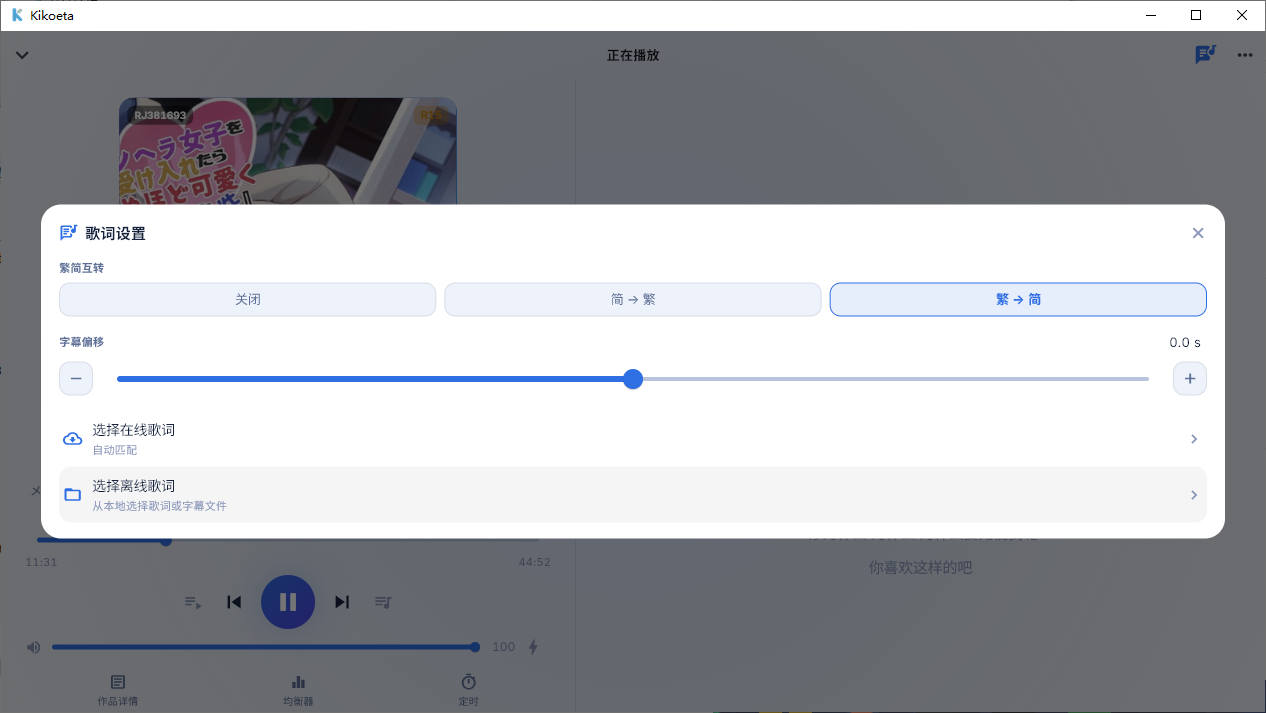
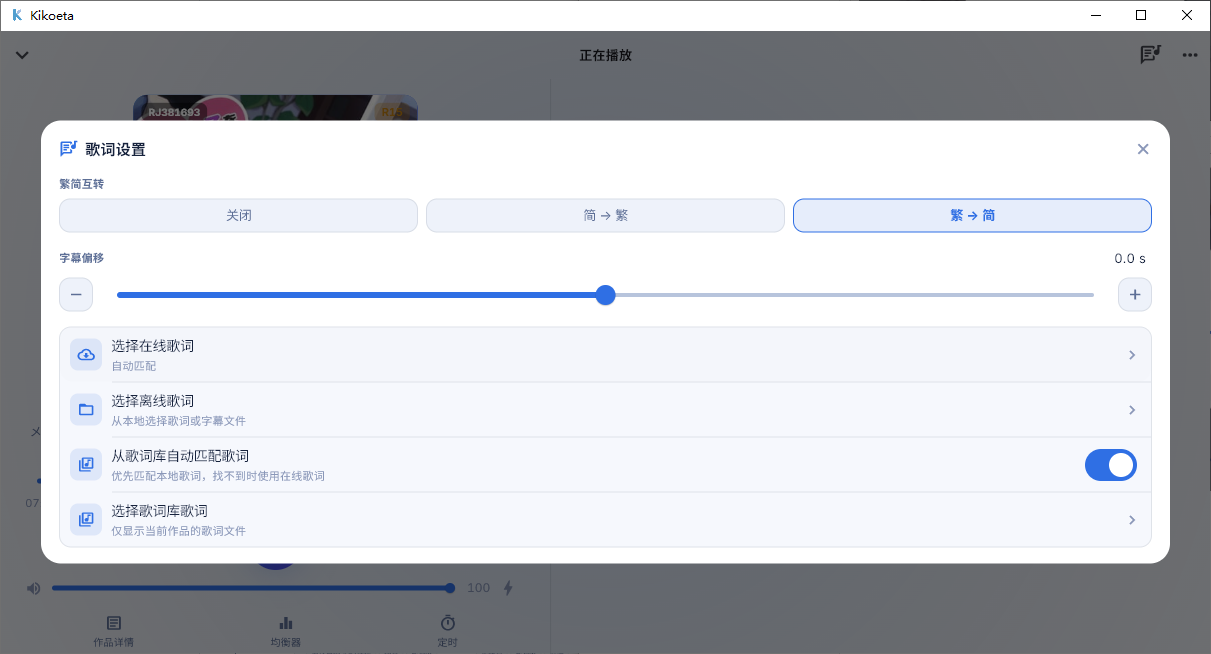
更新readme

diff --git a/README.md b/README.md
@@ -11,26 +11,53 @@
 
 ### 桌面端
 
-<img src="docs/image/首页-横屏.png" alt="Kikoeta 桌面端首页，展示搜索、筛选与作品流" width="100%">
-
-<img src="docs/image/播放器-横屏.png" alt="Kikoeta 桌面端播放器，左侧为播放控制，右侧为同步歌词" width="100%">
-
-| 网络与账号 | 播放工具 |
-| :---: | :---: |
-| <img src="docs/image/登录页.png" alt="登录页" width="100%"><br>账号登录与自建站点 | <img src="docs/image/网络代理.png" alt="网络代理设置" width="100%"><br>HTTP 网络代理 |
-| <img src="docs/image/均衡器.png" alt="十段均衡器" width="100%"><br>10 段均衡器 | <img src="docs/image/定时关闭.png" alt="定时关闭" width="100%"><br>定时关闭 |
+| 首页 | 播放器 |
+| --- | --- |
+| ![桌面端首页，展示搜索、筛选与作品流](docs/image/首页-横屏.png) | ![普通横屏播放器](docs/image/播放器-普通横屏.png) |
 
 ### Android
 
-<p align="center">
-  <img src="docs/image/首页-竖屏.png" alt="Android 首页作品流" width="31%">
-  <img src="docs/image/播放器-封面页-竖屏.png" alt="Android 播放器封面页" width="31%">
-  <img src="docs/image/播放器-字幕页-竖屏.png" alt="Android 播放器歌词页" width="31%">
-</p>
+<table>
+  <tr>
+    <th width="33%">首页</th>
+    <th width="33%">播放器封面</th>
+    <th width="33%">播放器歌词</th>
+  </tr>
+  <tr>
+    <td><img src="docs/image/首页-竖屏.png" alt="Android 首页作品流" width="100%"></td>
+    <td><img src="docs/image/播放器-封面页-竖屏.png" alt="Android 播放器封面页" width="100%"></td>
+    <td><img src="docs/image/播放器-字幕页-竖屏.png" alt="Android 播放器歌词页" width="100%"></td>
+  </tr>
+</table>
+
+横屏播放器(仅手机)
+
+<img src="docs/image/播放器-宽屏横屏.png" alt="手机横屏播放器，同时展示播放控制与同步歌词" width="100%">
+
+### 设置与播放工具
+
+<table>
+  <tr>
+    <th width="50%">账号登录与自建站点</th>
+    <th width="50%">HTTP 网络代理</th>
+  </tr>
+  <tr>
+    <td><img src="docs/image/登录页.png" alt="账号登录与自建站点设置" width="100%"></td>
+    <td><img src="docs/image/网络代理.png" alt="HTTP 网络代理设置" width="100%"></td>
+  </tr>
+  <tr>
+    <th>10 段均衡器</th>
+    <th>定时关闭</th>
+  </tr>
+  <tr>
+    <td><img src="docs/image/均衡器.png" alt="10 段均衡器设置" width="100%"></td>
+    <td><img src="docs/image/定时关闭.png" alt="定时关闭设置" width="100%"></td>
+  </tr>
+</table>
 
 <p align="center">
-  <img src="docs/image/歌词快捷设置.png" alt="歌词快捷设置" width="49%">
-  <img src="docs/image/定时关闭.png" alt="定时关闭设置" width="49%">
+  <img src="docs/image/歌词快捷设置.png" alt="歌词快捷设置" width="600"><br>
+  歌词快捷设置
 </p>
 
 ## 功能
@@ -60,7 +87,7 @@
 
 | 平台 | 状态 | 发布产物 |
 | --- | --- | --- |
-| Windows x64 | 支持 | 便携版目录 / 安装程序 |
+| Windows x64 | 支持 | 安装程序 |
 | Android arm64-v8a | 支持 | APK |
 | Linux / macOS | 计划中 | - |
 | IOS | 无计划 | 推荐使用[kikoeru-app](https://number17.online/docs/kikoeru-app) |
